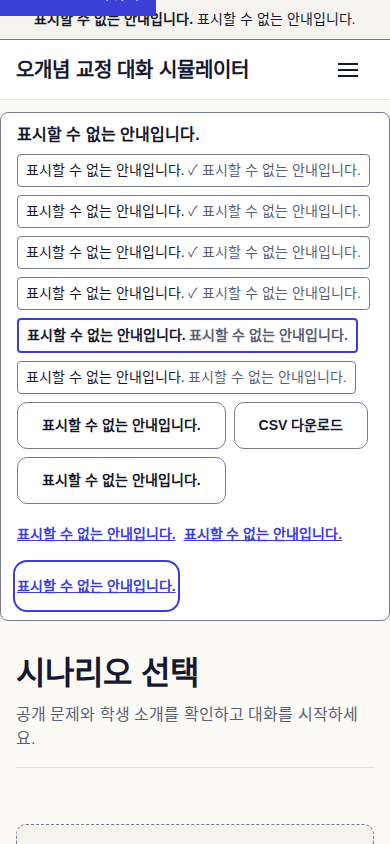
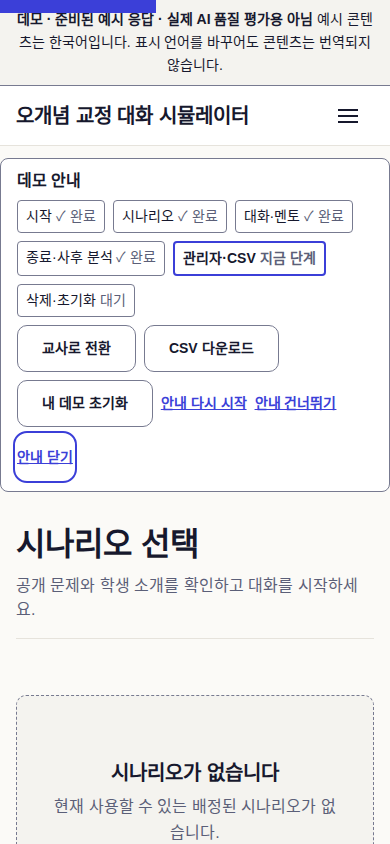
docs(demo): refresh D3-01 screenshots with catalog strings (#199)

diff --git a/docs/demo/d3-01-ui-evidence.md b/docs/demo/d3-01-ui-evidence.md
@@ -49,12 +49,15 @@
 | `0342ca8` (PR③ + r2 병합, clean) | 위와 같은 대상 pytest 9개 파일 + `tests/test_demo_d3_03_i18n.py` | 대상 10개 파일 | 315 passed, 1 failed: `test_i18n_catalog.py`. 원인은 #199가 쓰는 `demo.*` key 20개가 아직 catalog에 없는 것(#201에 요청함) |
 | `0342ca8` | `npm run test:browser -- demo_d3_01 html_errors uiux` (heavy lock) | 39개 모듈 | 39 PASS, 0 FAIL, 1288 s(lock 대기 포함) |
 
+| `8f10472` (catalog key 추가) | `pytest -q` 위 대상 + `tests/test_demo_d3_02_guards.py` | 대상 11개 파일 | 324 passed. `test_i18n_catalog.py` 포함 |
+| `8f10472` | `npm run test:browser -- demo_d3` (heavy lock) | 2개 모듈 | 2 PASS |
+
 브라우저 실행이 다시 만든 `tests/uiux/evidence/**` 추적 파일은 커밋하지 않고 되돌렸다.
 
 ## 화면
 
 `d3-01-evidence/layout-390x844.png`, `layout-1440x900.png`, `layout-720x450.png` (관리자, 분석까지 완료한 상태).
-캡처 시점에는 #201 PR1(catalog `demo` 영역)이 아직 병합되지 않아 `demo.*` 문구가 번역 fallback("표시할 수 없는 안내입니다.")으로 보인다. 배치·조작 검사는 문구와 무관하다. #201 PR1 병합 뒤 PR③에서 다시 캡처한다.
+PR③에서 #199용 `demo.*` key 20개를 catalog에 더한 뒤(`8f10472`, #190 결정) 다시 캡처했다. 이제 실제 한국어 문구가 보인다.
 
 ## 아직 아닌 것
 
